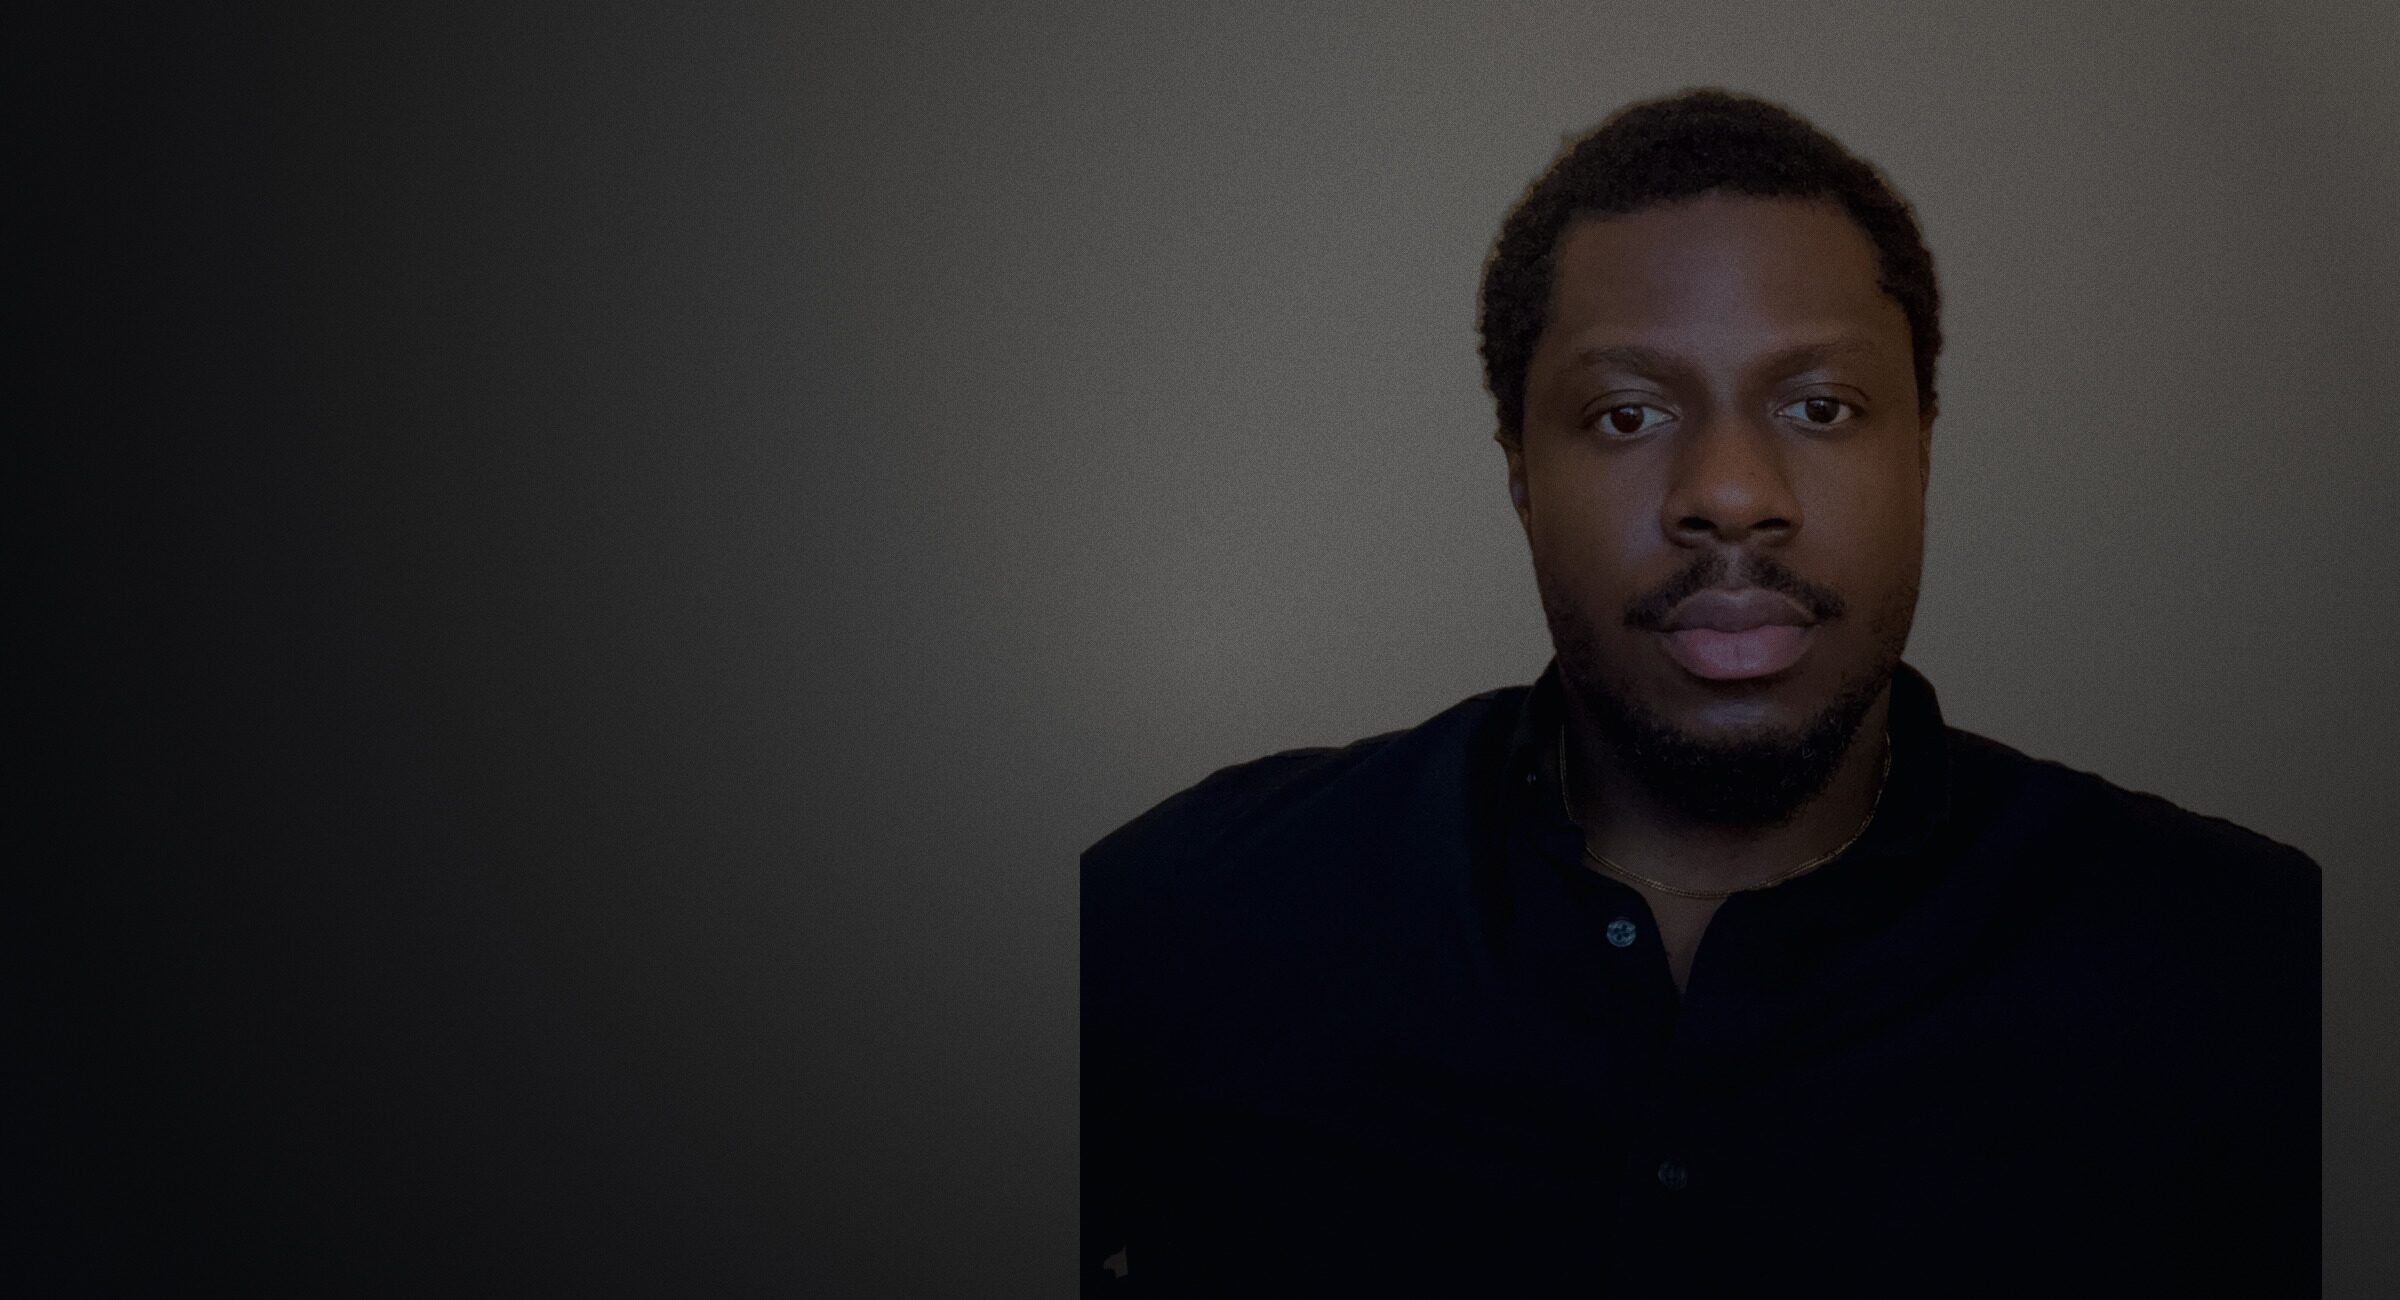
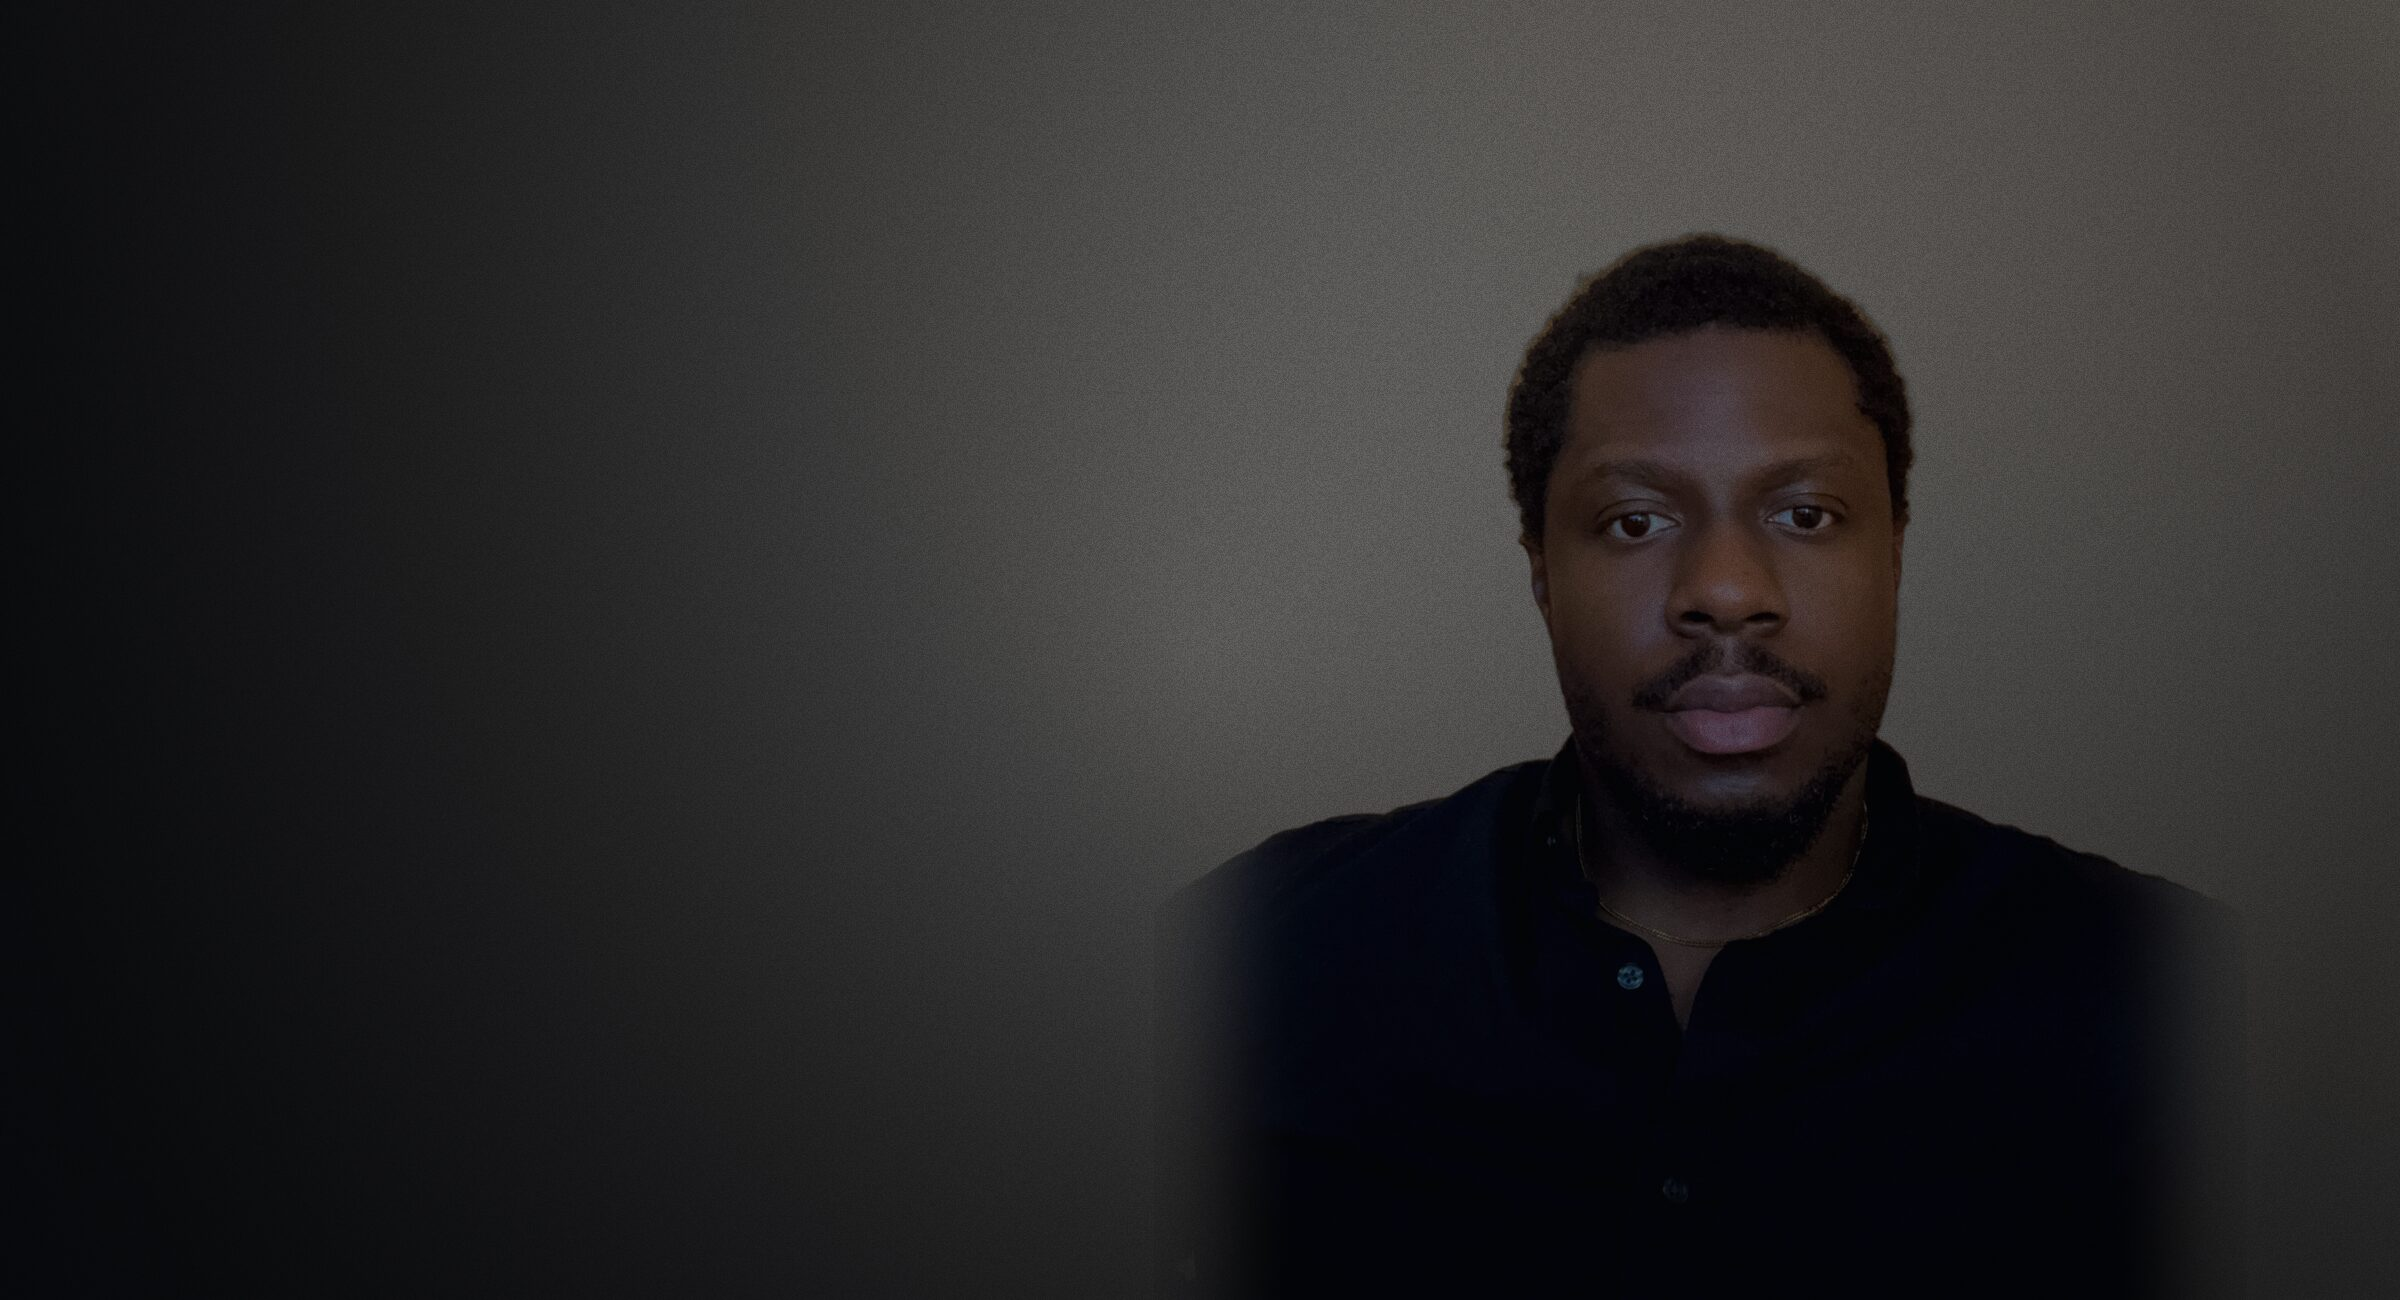
Fix composite seam, mobile header width bug, and WhatsApp overlap
Feather the subject cutout's edges before compositing so it dissolves
into the studio backdrop instead of showing a hard cut line, and scale
the subject down slightly for more breathing room. Fix a real bug:
.site-header had a leftover width constraint from before it became
position:fixed, which fought with left:0/right:0 and left dead space
on the right in mobile view — header now genuinely spans edge to edge.
Tune object-position for the new composite on both desktop and mobile
crops so the face reads clearly instead of a thin sliver. Hide the
floating WhatsApp button while the hero is in view so it stops
overlapping the trust-row copy, revealing it once scrolled past.

Changed region(s): [[0.4375, 0.0615, 0.9688, 1.0]]

diff --git a/styles.css b/styles.css
@@ -138,7 +138,7 @@ h1 em, h2 em { font-style: normal; color: var(--blue) }
 /* Cinematic full-bleed hero */
 .hero { position: relative; min-height: 760px; display: flex; align-items: center; overflow: hidden; isolation: isolate }
 .hero-media { position: absolute; inset: 0; z-index: 0; background: #0b0c0f }
-.hero-media img { width: 100%; height: 100%; object-fit: cover; object-position: 68% 16%; transform-origin: 70% 24%; animation: ken-burns 22s ease-in-out infinite alternate }
+.hero-media img { width: 100%; height: 100%; object-fit: cover; object-position: 71% 14%; transform-origin: 71% 26%; animation: ken-burns 22s ease-in-out infinite alternate }
 .hero-scrim { position: absolute; inset: 0; z-index: 1; pointer-events: none; background: linear-gradient(100deg, rgba(6,7,10,.62) 0%, rgba(6,7,10,.22) 40%, rgba(6,7,10,.02) 58%) }
 .hero-sweep { position: absolute; inset: -50% -20%; z-index: 2; pointer-events: none; background: linear-gradient(75deg, transparent 42%, rgba(255,255,255,.18) 50%, transparent 58%); transform: translateX(-140%) rotate(8deg) }
 .hero-sweep.in { animation: sweep 1.8s var(--ease) .7s 1 both }
@@ -275,7 +275,8 @@ footer > div:not(.footer-brand) { display: flex; flex-direction: column }
 footer small { grid-column: 1/-1; border-top: 1px solid #242833; padding-top: 20px }
 
 /* WhatsApp float */
-.whatsapp { position: fixed; right: 22px; bottom: 22px; width: 52px; height: 52px; border-radius: 50%; display: grid; place-items: center; background: #20c76a; color: #fff; z-index: 60; box-shadow: 0 10px 30px rgba(0,0,0,.2); animation: float-bob 4s ease-in-out infinite; transition: transform .3s var(--ease), box-shadow .3s ease }
+.whatsapp { position: fixed; right: 22px; bottom: 22px; width: 52px; height: 52px; border-radius: 50%; display: grid; place-items: center; background: #20c76a; color: #fff; z-index: 60; box-shadow: 0 10px 30px rgba(0,0,0,.2); animation: float-bob 4s ease-in-out infinite; transition: transform .3s var(--ease), box-shadow .3s ease, opacity .3s ease; opacity: 0; pointer-events: none }
+.whatsapp.visible { opacity: 1; pointer-events: auto }
 .whatsapp:hover { transform: scale(1.1); box-shadow: 0 16px 40px rgba(32,199,106,.4) }
 .whatsapp svg { width: 25px; height: 25px; fill: none; stroke: #fff; stroke-width: 1.8; stroke-linecap: round; stroke-linejoin: round }
 
@@ -324,7 +325,7 @@ footer small { grid-column: 1/-1; border-top: 1px solid #242833; padding-top: 20
   .menu-toggle { order: 3 }
   .brand-type small { display: none }
   .hero { min-height: 720px; align-items: flex-start }
-  .hero-media img { object-position: 66% 20% }
+  .hero-media img { object-position: 71% 18% }
   .hero-scrim { background: linear-gradient(180deg, rgba(6,7,10,.52) 0%, rgba(6,7,10,.58) 45%, rgba(6,7,10,.82) 78%, rgba(6,7,10,.9) 100%) }
   .hero-overlay { padding: 150px 0 56px }
   .hero-copy { max-width: none }
@@ -341,8 +342,8 @@ footer small { grid-column: 1/-1; border-top: 1px solid #242833; padding-top: 20
 }
 
 @media (max-width: 620px) {
-  .section-shell, .site-header { width: min(calc(100% - 28px), var(--max)) }
-  .site-header { height: 70px; padding: 0 14px }
+  .section-shell { width: min(calc(100% - 28px), var(--max)) }
+  .site-header { height: 70px; padding: 0 14px; width: auto }
   .site-header.scrolled { height: 60px }
   #top, #work, #services, #about, #process, #contact { scroll-margin-top: 84px }
   h1 { font-size: clamp(42px, 13.4vw, 56px) }

diff --git a/script.js b/script.js
@@ -74,12 +74,17 @@ form.addEventListener('submit', async (event) => {
 /* Scroll progress + sticky header state */
 const progressBar = document.querySelector('.scroll-progress span');
 const header = document.querySelector('.site-header');
+const whatsappBtn = document.querySelector('.whatsapp');
+const heroEl = document.querySelector('.hero');
 let ticking = false;
 function onScroll() {
   const scrollTop = window.scrollY;
   const height = document.documentElement.scrollHeight - window.innerHeight;
   progressBar.style.transform = `scaleX(${height > 0 ? Math.min(scrollTop / height, 1) : 0})`;
   header.classList.toggle('scrolled', scrollTop > 12);
+  if (whatsappBtn && heroEl) {
+    whatsappBtn.classList.toggle('visible', scrollTop > heroEl.offsetHeight - 220);
+  }
   ticking = false;
 }
 window.addEventListener('scroll', () => {
